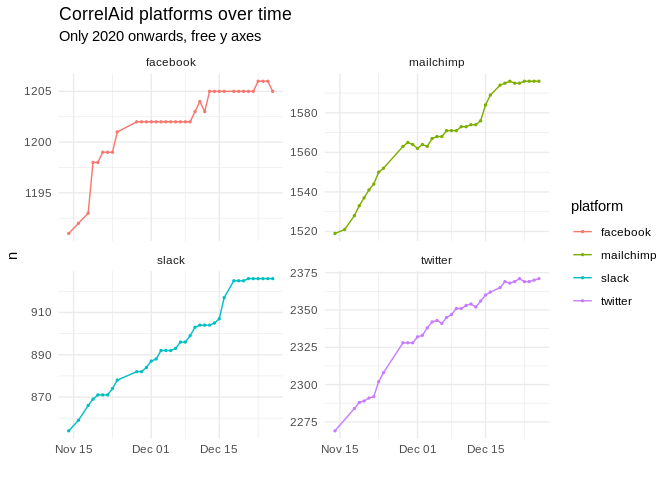
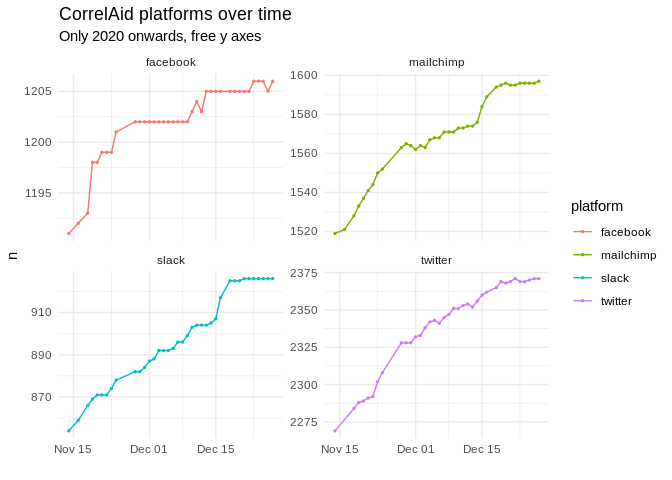
🤖 CRON - update daily data

diff --git a/README.md b/README.md
@@ -25,8 +25,8 @@ count and general network data on a daily basis using
 
 ### Plots
 
-*last updated*: 2020-12-26
-23:50:14
+*last updated*: 2020-12-27
+23:50:13
 
 ![](README_files/figure-gfm/plot-alltime-1.png)<!-- -->
 
